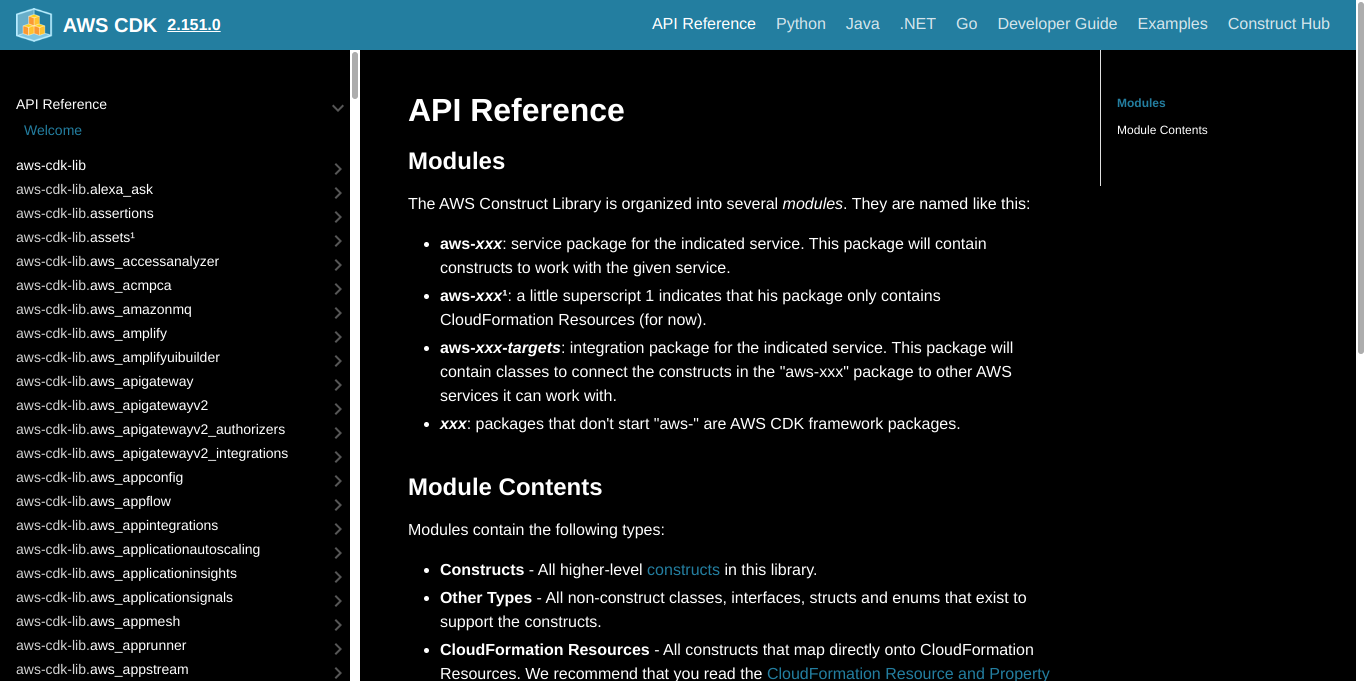
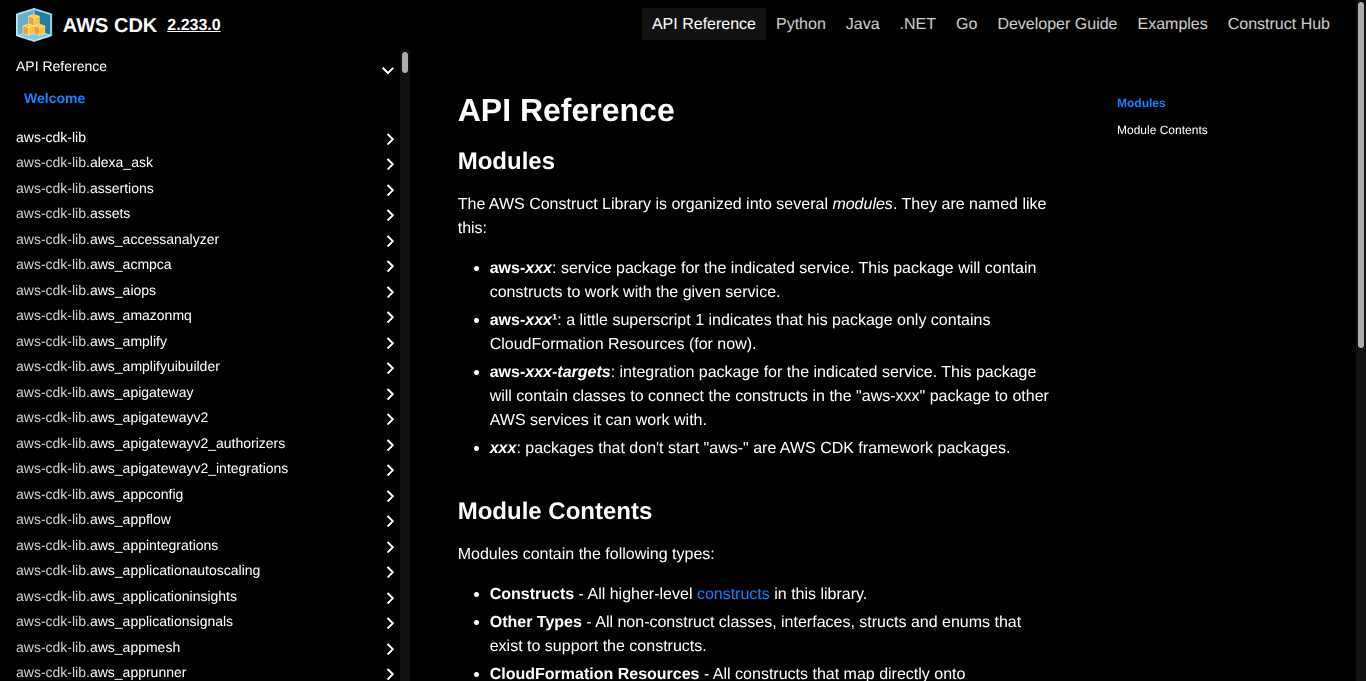
aws-cdk: more darker elements
- fix scrollbar colors
- unset column widths
- wrap code
- navigation sub headers in bold
- bump deps

Changed region(s): [[0.0, 0.0, 1.0, 1.0], [0.3075, 0.2775, 0.7687, 0.6784], [0.7994, 0.1233, 0.8609, 0.1542]]

diff --git a/sites/aws-cdk/aws-cdk.user.css b/sites/aws-cdk/aws-cdk.user.css
@@ -1,7 +1,7 @@
 /* ==UserStyle==
 @name           AWS CDK Dark
 @namespace      github.com/aruncveli/userstyles
-@version 25.7.14
+@version 25.12.25
 @description    Dark mode only for the TypeScript docs of AWS CDK.
 @author         Arun Chandanaveli <aruncveli@gmail.com> (https://github.com/aruncveli)
 @homepageURL    https://github.com/aruncveli/userstyles
@@ -10,6 +10,7 @@
 @license        MIT
 @preprocessor   default
 @var color fg "Foreground" white
+@var color fg1 "Foreground darkened 1" #ddd
 @var color bg "Background" black
 @var color bg1 "Background lightened 1" #111
 @var color link-color "Link" #0b84ff
@@ -17,6 +18,11 @@
 @-moz-document url-prefix("https://docs.aws.amazon.com/cdk/api/v2/docs/") {
   :root {
     color-scheme: dark;
+    --color-background: var(--bg1);
+    --layout-max-width: unset;
+    --content-max-width: unset;
+    --text-max-width: unset;
+    scrollbar-gutter: stable;
   }
 
   body,
@@ -25,17 +31,24 @@
   .toc .toggleNav .navGroup .navGroupCategoryTitle,
   .toc .toggleNav .navGroup .navGroupSubcategoryTitle,
   .navGroupCategoryTitle path:first-child,
-  blockquote {
+  blockquote,
+  .nav-footer {
     color: var(--fg);
   }
 
   body,
-  table tr:nth-child(2n) {
+  table tr:nth-child(2n),
+  .fixedHeaderContainer,
+  .nav-footer {
     background-color: var(--bg);
   }
 
   code,
-  blockquote {
+  blockquote,
+  .navigationSlider .slidingNav ul li.siteNavGroupActive > a,
+  .navigationSlider .slidingNav ul li > a:focus,
+  .navigationSlider .slidingNav ul li > a:hover,
+  .button:hover {
     background-color: var(--bg1);
   }
 
@@ -48,7 +61,11 @@
   a,
   a:hover,
   .toc .toggleNav ul li a:hover,
-  .toc .toggleNav ul li.navListItemActive a {
+  .toc .toggleNav ul li.navListItemActive a,
+  .toc .toggleNav ul li a:focus,
+  .onPageNav .toc-headings > li > a.active,
+  .button,
+  .button:hover {
     color: var(--link-color);
   }
 
@@ -58,6 +75,36 @@
         border-left-color: var(--bg);
       }
     }
+  }
+
+  span.arrow > svg > path:first-child /* arrow in the left sidebar */ {
+    fill: var(--fg);
+  }
+
+  .toc .toggleNav .navGroup .navGroupSubcategoryTitle,
+  .navGroup:not(.subNavGroup) > ul > li > a {
+    font-weight: bold;
+  }
+
+  .button {
+    border-color: var(--bg);
+  }
+
+  pre code {
+    white-space: pre-wrap;
+  }
+
+  #docsNav {
+    width: unset !important;
+  }
+
+  .toc,
+  .docsNavContainer {
+    padding: unset;
+  }
+
+  .toc {
+    overflow-x: hidden;
   }
 
   /*!

diff --git a/sites/aws-cdk/README.md b/sites/aws-cdk/README.md
@@ -2,6 +2,6 @@
 
 [Install](https://raw.githubusercontent.com/aruncveli/userstyles/refs/heads/main/sites/aws-cdk/aws-cdk.user.css)
 
-Dark mode only for the _TypeScript_ docs of AWS CDK.
+Dark mode for the _TypeScript_ docs of AWS CDK.
 
 ![Screenshot of page](screenshot.png)
